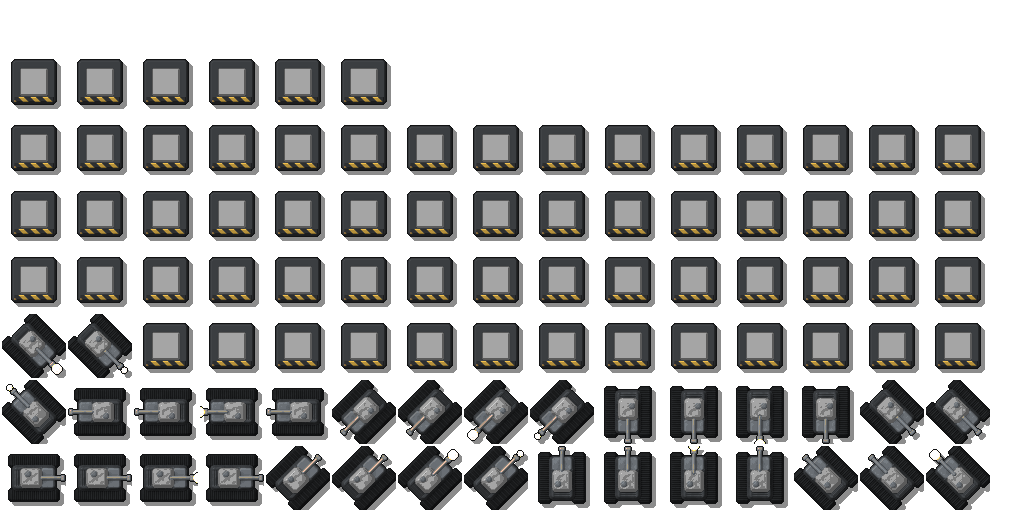
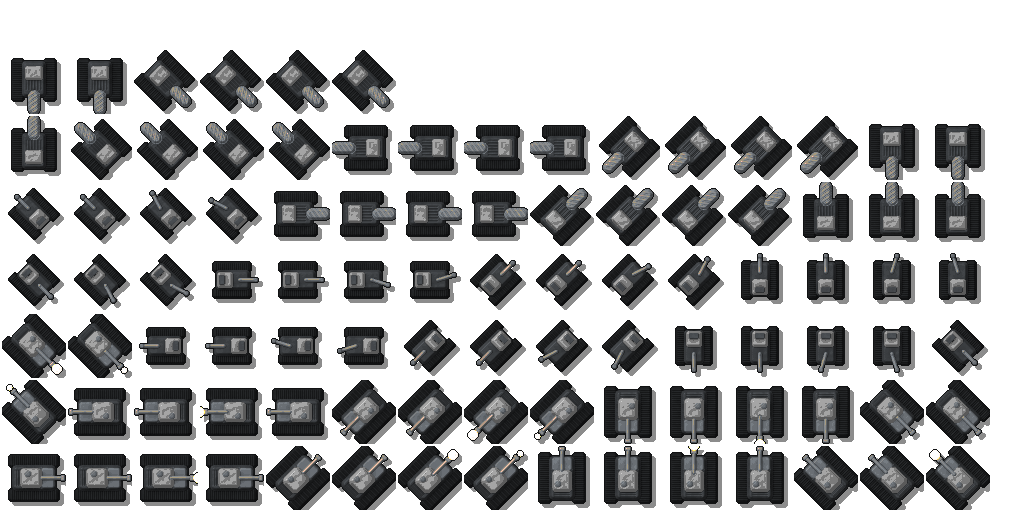
Draw the Builder, Digger, Bomb, Radar and wall art

Changed region(s): [[0.0, 0.0938, 0.9688, 0.75]]

diff --git a/Assets/Scripts/Art/Render/RenderGen.cs b/Assets/Scripts/Art/Render/RenderGen.cs
@@ -205,6 +205,123 @@ namespace WAR2D.Art.Render
             return c;
         }
 
+        /// <summary>The Builder: a small tracked hauler with a cab and a crane arm at the back. Frames 0–1 move, 2–3 swing the arm.</summary>
+        public static LitCanvas Builder(float angle, int frame)
+        {
+            var c = new LitCanvas(TileSize, TileSize);
+            float cos = Mathf.Cos(angle), sin = Mathf.Sin(angle), o = TileSize / 2f;
+            Func<float, float, float> L(Func<float, float, float> local) =>
+                (x, y) => local((x - o) * cos + (y - o) * sin, -(x - o) * sin + (y - o) * cos);
+            float tread = frame == 1 ? 2f : 0f, swing = frame == 2 ? 5f : frame == 3 ? -5f : 0f;
+            foreach (float side in new[] { -1f, 1f })
+            {
+                c.Shape(L((x, y) => Box(x, y, 0, side * 13, 19, 5, 2.5f)), Rubber, 5, 2, 3);
+                c.Groove(L((x, y) => Box(x, y, 0, side * 13, 18, 4) > 0 ? 9 : Mathf.Abs(Mod(x + tread, 4) - 2) - 1.1f), 1.1f, 0.7f);
+            }
+            c.Shape(L((x, y) => Box(x, y, -1, 0, 17, 10, 4)), Hull, 9, 3, 3);
+            c.Shape(L((x, y) => Box(x, y, 7, 0, 8, 8, 3)), Team, 15, 2.5f, 3);
+            c.Shape(L((x, y) => Box(x, y, 10, 0, 3, 5, 1)), Glass, 15.5f, 0.6f, 0.6f, stack: true);
+            // The crane: a boom from the rear deck out behind, with a hook.
+            c.Shape(L((x, y) => Capsule(x, y, -8, 0, -24, swing, 1.8f)), Steel, 13, 1.5f, 2);
+            c.Shape(L((x, y) => Circle(x, y, -24, swing, 2.6f)), Plate, 14, 1, 1.5f);
+            c.Rivet(o + (-8f) * cos, o + (-8f) * sin, 1.4f, 1f);
+            c.Grime(11, 0.3f, 0.12f, 6);
+            return c;
+        }
+
+        /// <summary>The Digger: a squat drill carrier. Frames 0–1 move, 2–3 turn the drill's spiral.</summary>
+        public static LitCanvas Digger(float angle, int frame)
+        {
+            var c = new LitCanvas(TileSize, TileSize);
+            float cos = Mathf.Cos(angle), sin = Mathf.Sin(angle), o = TileSize / 2f;
+            Func<float, float, float> L(Func<float, float, float> local) =>
+                (x, y) => local((x - o) * cos + (y - o) * sin, -(x - o) * sin + (y - o) * cos);
+            float tread = frame == 1 ? 2f : 0f, turn = frame >= 2 ? (frame - 2) * 2.2f : 0f;
+            foreach (float side in new[] { -1f, 1f })
+            {
+                c.Shape(L((x, y) => Box(x, y, -2, side * 16, 21, 6.5f, 3)), Rubber, 6, 2, 3);
+                c.Groove(L((x, y) => Box(x, y, -2, side * 16, 20, 5.5f) > 0 ? 9 : Mathf.Abs(Mod(x + tread, 4) - 2) - 1.2f), 1.2f, 0.7f);
+            }
+            c.Shape(L((x, y) => Box(x, y, -3, 0, 18, 12, 4)), Hull, 11, 3, 3.5f);
+            c.Shape(L((x, y) => Box(x, y, -9, 0, 7, 9, 3)), Team, 15, 2, 3);
+            c.Groove(L((x, y) => Box(x, y, 3, 0, 5, 8) > 0 ? 9 : Mathf.Abs(Mod(y, 3) - 1.5f) - 0.5f), 0.8f, 0.5f);
+            // The drill nose, with a spiral groove that turns.
+            c.Shape(L((x, y) => Capsule(x, y, 14, 0, 27, 0, 6)), Steel, 14, 3, 4);
+            c.Groove(L((x, y) => Capsule(x, y, 14, 0, 27, 0, 6) > 0 ? 9 : Mathf.Abs(Mod(x + y * 0.7f + turn, 5) - 2.5f) - 0.8f), 1f, 0.6f);
+            c.Grime(17, 0.35f, 0.14f, 6);
+            return c;
+        }
+
+        /// <summary>The Bomb (1×1): a low disc half sunk in the floor with a team ring; frame 1 blinks the lamp.</summary>
+        public static LitCanvas Bomb(int frame)
+        {
+            var c = new LitCanvas(TileSize, TileSize);
+            float o = TileSize / 2f;
+            c.Shape((x, y) => Circle(x, y, o, o, 20), Dark, 6, 2, 3);
+            c.Shape((x, y) => Mathf.Abs(Circle(x, y, o, o, 14)) - 2.4f, Team, 8, 1, 1.2f, stack: true);
+            c.Shape((x, y) => Circle(x, y, o, o, 7), Plate, 9, 2, 2);
+            c.Shape((x, y) => Circle(x, y, o, o, 3.2f), frame == 0 ? Lamp : Dark, 10, 0.8f, 0.6f);
+            for (int k = 0; k < 4; k++)
+            {
+                float a = k * Mathf.PI / 2f + Mathf.PI / 4f;
+                c.Rivet(o + Mathf.Cos(a) * 17, o + Mathf.Sin(a) * 17, 1f, 0.8f);
+            }
+            c.Grime(5, 0.25f, 0.1f, 6);
+            return c;
+        }
+
+        /// <summary>The Radar (2×2): a concrete pad and equipment block under a tall mast with a dish; frames turn the dish.</summary>
+        public static LitCanvas Radar(int frame)
+        {
+            int s = 2 * TileSize;
+            var c = new LitCanvas(s, s + Headroom / 2, s / 2f);
+            float o = s / 2f;
+            c.Shape((x, y) => Box(x, y, o, o - 8, 52, 40, 3), Concrete, 3, 1, 1.5f);
+            c.Shape((x, y) => Box(x, y, o - 20, o - 20, 22, 16, 2.5f), Hull, 16, 2, 3);
+            c.Shape((x, y) => Box(x, y, o - 20, o - 8, 14, 4, 1), Team, 17, 1, 1.2f, stack: true);
+            c.Groove((x, y) => Box(x, y, o + 22, o - 24, 18, 12) > 0 ? 9 : Mathf.Abs(Mod(x, 4) - 2) - 0.6f, 0.8f, 0.6f);
+            c.Shape((x, y) => Box(x, y, o + 22, o - 24, 18, 12, 2), Plate, 14, 1.5f, 2);
+            // Mast and dish.
+            float shift = frame == 0 ? -5f : 5f;
+            c.Shape((x, y) => Box(x, y, o, o + 6, 4, 26, 1.5f), Steel, 30, 1.5f, 2);
+            c.Shape((x, y) => Circle(x, y, o + shift, o + 30, 24), Steel, 44, 3, 5);
+            c.Groove((x, y) => Mathf.Abs(Circle(x, y, o + shift, o + 30, 16)) - 0.35f, 1f, 0.7f);
+            c.Shape((x, y) => Circle(x, y, o + shift, o + 30, 6), Team, 46, 1.5f, 2.5f);
+            c.Shape((x, y) => Circle(x, y, o + shift, o + 30, 2.2f), Lamp, 48, 0.8f, 0.5f);
+            c.Grime(29, 0.2f, 0.08f, 8);
+            return c;
+        }
+
+        // ---------- Player walls ----------
+
+        /// <summary>
+        /// A player wall for a 4-neighbour mask (bit set = that neighbour is wall or rock): a team-banded block that
+        /// joins its neighbours. <paramref name="damage"/> 0 is whole, 1 cracked, 2 crumbling.
+        /// </summary>
+        public static LitCanvas PlayerWall(int seed, int mask, int damage)
+        {
+            LitCanvas c = Floor(seed, mask & 3);
+            Func<float, float, float> block = (x, y) => EdgeDistance(x, y, mask) - 5;
+            c.Shape((x, y) => -block(x, y), Hull, 20, 4, 6);
+            c.Shape((x, y) => -(EdgeDistance(x, y, mask) - 14), Team, 22.5f, 1.5f, 1.5f, stack: true);
+            c.Groove((x, y) => block(x, y) <= 0 ? 9 : Mathf.Abs(Mod(x + y, 8) - 4) - 0.35f, 0.7f, 0.5f);
+            if (damage > 0)
+            {
+                float width = 0.006f * (1 + damage);
+                c.Groove((x, y) => block(x, y) <= 0 ? 9 : (Mathf.Abs(Noise.Fbm(x, y, TileSize, 3, 3, seed + 5 + damage * 13) - 0.5f) - width) * 60, 1.4f, 0.8f);
+            }
+            if (damage > 1) c.Grime(seed + 3, 0.5f, 0.22f, 5);
+            return c;
+        }
+
+        /// <summary>A planned wall segment: the floor with a dashed team outline where the wall will stand.</summary>
+        public static LitCanvas WallBlueprint(int mask)
+        {
+            LitCanvas c = Floor(7, mask & 3);
+            c.Shape((x, y) => Mod(x + y, 10) < 5 ? Mathf.Abs(EdgeDistance(x, y, mask) - 8) - 1.4f : 9f, Team, 3, 0.8f, 0.8f);
+            return c;
+        }
+
         /// <summary>The HQ's footprint in tiles (GameConfig.xml's Base Width and Height).</summary>
         public const int HqTiles = 5;
 

diff --git a/Assets/Scripts/Art/PixelIcons.cs b/Assets/Scripts/Art/PixelIcons.cs
@@ -151,6 +151,63 @@ namespace WAR2D.Art
                 "................",
                 "................",
             },
+            ["IconRadar"] = new[]
+            {
+                "................",
+                "..#####.........",
+                ".#######........",
+                "##.....##.......",
+                "#..###..#..++...",
+                "#..###..#.++....",
+                "##.###.##++.....",
+                ".#######++......",
+                "..#####.+.......",
+                ".....#..........",
+                ".....#..........",
+                "....###.........",
+                "...#####........",
+                "..#######.......",
+                "................",
+                "................",
+            },
+            ["IconDig"] = new[]
+            {
+                "................",
+                "......####......",
+                ".....######.....",
+                "....##.##.##....",
+                "...##..##..##...",
+                "..##...##...##..",
+                "......####......",
+                ".......##.......",
+                ".......##.......",
+                ".......##.......",
+                ".......##.......",
+                ".......##.......",
+                "....++++++++....",
+                "...++++++++++...",
+                "................",
+                "................",
+            },
+            ["IconCancel"] = new[]
+            {
+                "................",
+                "..##........##..",
+                "..###......###..",
+                "...###....###...",
+                "....###..###....",
+                ".....######.....",
+                "......####......",
+                ".......##.......",
+                "......####......",
+                ".....######.....",
+                "....###..###....",
+                "...###....###...",
+                "..###......###..",
+                "..##........##..",
+                "................",
+                "................",
+            },
             ["CursorDefault"] = new[]
             {
                 "#...............",

diff --git a/Assets/Scripts/Editor/ArtBuild.cs b/Assets/Scripts/Editor/ArtBuild.cs
@@ -125,6 +125,18 @@ namespace WAR2D.EditorTools
             {
                 case nameof(UnitType.Tank):
                     return ($"Tank {direction} {frame}", () => RenderGen.Tank(direction * Mathf.PI / 4f, frame), 0f);
+                case "Builder":
+                    return ($"Builder {direction} {frame}", () => RenderGen.Builder(direction * Mathf.PI / 4f, frame), 0f);
+                case "Digger":
+                    return ($"Digger {direction} {frame}", () => RenderGen.Digger(direction * Mathf.PI / 4f, frame), 0f);
+                case "Bomb":
+                    return ($"Bomb {frame}", () => RenderGen.Bomb(frame), 0f);
+                case "Radar":
+                    return ($"Radar {frame}", () => RenderGen.Radar(frame), RenderGen.Lift);
+                case "PlayerWall":
+                    return ($"PlayerWall {frame}", () => RenderGen.PlayerWall(Seed, frame % ArtManifest.AutotileVariants, frame / ArtManifest.AutotileVariants), 0f);
+                case "WallBlueprint":
+                    return ($"WallBlueprint {frame}", () => RenderGen.WallBlueprint(frame), 0f);
                 case nameof(BuildingType.Base):
                     return ("Base", RenderGen.Base, RenderGen.Lift);
                 case nameof(BuildingType.SmallUnitSpawner):

diff --git a/Assets/Scripts/Unit/WorldStateManager.cs b/Assets/Scripts/Unit/WorldStateManager.cs
@@ -430,7 +430,12 @@ public partial class WorldStateManager : NetworkBehaviour
             int id = building.id;
             if (GameCore.Instance != null && GameCore.Instance.CurrentState == GameState.Playing) GameCore.Instance.Stats.BuildingLost(building.ownerId);
             Buildings.Remove(id);
-            if (building.buildingType == BuildingType.Bomb) bombTiles.Remove((int2)math.round(building.position));
+            if (building.buildingType == BuildingType.Bomb)
+            {
+                // Only drop the entry if it is still this bomb's (another may have been built on the tile since).
+                int2 bombTile = (int2)math.round(building.position);
+                if (bombTiles.TryGetValue(bombTile, out var registered) && registered.id == id) bombTiles.Remove(bombTile);
+            }
             if (building.buildingType == BuildingType.Radar) radars?.Forget(id);
             Sim?.ForgetBuilding(id);
             Ids?.Free(id);

diff --git a/Assets/Scripts/Art/ArtManifest.cs b/Assets/Scripts/Art/ArtManifest.cs
@@ -103,6 +103,9 @@ namespace WAR2D.Art
             new ArtEntry("IconDigger", ArtKind.Icon, 1, 1, 1, 1, false),
             new ArtEntry("IconBomb", ArtKind.Icon, 1, 1, 1, 1, false),
             new ArtEntry("IconRepair", ArtKind.Icon, 1, 1, 1, 1, false),
+            new ArtEntry("IconRadar", ArtKind.Icon, 1, 1, 1, 1, false),
+            new ArtEntry("IconDig", ArtKind.Icon, 1, 1, 1, 1, false),
+            new ArtEntry("IconCancel", ArtKind.Icon, 1, 1, 1, 1, false),
             new ArtEntry("CursorDefault", ArtKind.Icon, 1, 1, 1, 1, false),
             new ArtEntry("CursorMove", ArtKind.Icon, 1, 1, 1, 1, false),
             new ArtEntry("CursorAttack", ArtKind.Icon, 1, 1, 1, 1, false),

diff --git a/Assets/Scripts/UI/Controllers/CommandIcon.cs b/Assets/Scripts/UI/Controllers/CommandIcon.cs
@@ -5,7 +5,7 @@ using WAR2D.Art;
 namespace WAR2D.UI
 {
     /// <summary>The command card's icons (Figma: <c>Icons &amp; cursors – v0.8</c>).</summary>
-    public enum IconKind { Move, AttackMove, Stop, Hold, Miner, Spawner, Wall }
+    public enum IconKind { Move, AttackMove, Stop, Hold, Miner, Spawner, Wall, Radar, Dig, Cancel }
 
     /// <summary>
     /// A 16×16 pixel icon from <see cref="PixelIcons"/>, drawn point-filtered at the element's size. Its tint
